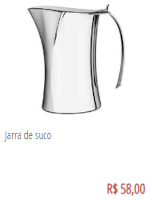
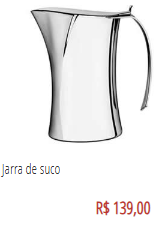
ultima atualização

diff --git a/index.html b/index.html
@@ -204,12 +204,7 @@
   <div class="gift-container">
     <div class="gift">
       <img src="img.png" alt="Jarra de suco">
-      <button onclick="abrirFormulario('Jarra de suco', '58.00')">Comprar</button>
-    </div>
-
-    <div class="gift">
-      <img src="img115.png" alt="Jogo de lençol">
-      <button onclick="abrirFormulario('Jogo de lençol', '115.00')">Comprar</button>
+      <button onclick="abrirFormulario('Jarra de suco', '139.00')">Comprar</button>
     </div>
 
     <div class="gift">
@@ -218,8 +213,23 @@
     </div>
 
     <div class="gift">
+      <img src="img160.png" alt="Vasos decorativos">
+      <button onclick="abrirFormulario('Vasos decorativos', '160.00')">Comprar</button>
+    </div>
+
+    <div class="gift">
+      <img src="imagem-casaco.PNG" alt="Casaco de cardigã">
+      <button onclick="abrirFormulario('Casaco de cardigã', '180.00')">Comprar</button>
+    </div>
+
+    <div class="gift">
       <img src="img200.png" alt="Espremedor de frutas">
       <button onclick="abrirFormulario('Espremedor de frutas', '200.00')">Comprar</button>
+    </div>
+
+    <div class="gift">
+      <img src="imagem-relogio.PNG" alt="Relógio feminino">
+      <button onclick="abrirFormulario('Relógio feminino', '230.00')">Comprar</button>
     </div>
 
     <div class="gift">
@@ -228,8 +238,23 @@
     </div>
 
     <div class="gift">
+      <img src="imagem-perfume.PNG" alt="Combo perfume">
+      <button onclick="abrirFormulario('Combo perfume', '240.00')">Comprar</button>
+    </div>
+
+    <div class="gift">
+      <img src="guarda-chuvaUT.png" alt="Guarda-chuva de renda">
+      <button onclick="abrirFormulario('Guarda-chuva de renda', '270.00')">Comprar</button>
+    </div>
+
+    <div class="gift">
       <img src="img280.png" alt="Jogo de toalhas">
       <button onclick="abrirFormulario('Jogo de toalhas', '280.00')">Comprar</button>
+    </div>
+
+    <div class="gift">
+      <img src="img300.png" alt="Edredom Queen">
+      <button onclick="abrirFormulario('Edredom Queen', '300.00')">Comprar</button>
     </div>
 
     <div class="gift">
@@ -238,59 +263,37 @@
     </div>
 
     <div class="gift">
+      <img src="img320.png" alt="Air Fryer">
+      <button onclick="abrirFormulario('Air Fryer', '320.00')">Comprar</button>
+    </div>
+
+    <div class="gift">
       <img src="img350.png" alt="Batedeira planetária">
       <button onclick="abrirFormulario('Batedeira planetária', '350.00')">Comprar</button>
+    </div>
+
+    <div class="gift">
+      <img src="img365.png" alt="Chuveiro Eletrônico Lorenzetti">
+      <button onclick="abrirFormulario('Chuveiro Eletrônico Lorenzetti', '365.00')">Comprar</button>
+    </div>
+
+    <div class="gift">
+      <img src="img420.png" alt="Luminaria de chão">
+      <button onclick="abrirFormulario('Luminaria de chão', '420.00')">Comprar</button>
+    </div>
+
+    <div class="gift">
+      <img src="img448.png" alt="Cafeteira">
+      <button onclick="abrirFormulario('Cafeteira', '480.00')">Comprar</button>
     </div>
 
     <div class="gift">
       <img src="img470.png" alt="Lavador de alta pressão">
       <button onclick="abrirFormulario('Lavador de alta pressão', '479.00')">Comprar</button>
     </div>
+    
 
-    <div class="gift">
-      <img src="img540.png" alt="Edredom Queen">
-      <button onclick="abrirFormulario('Edredom Queen', '540.00')">Comprar</button>
-    </div>
 
-    <div class="gift">
-      <img src="img550.png" alt="Air Fryer">
-      <button onclick="abrirFormulario('Air Fryer', '550.00')">Comprar</button>
-    </div>
-
-    <div class="gift">
-      <img src="img680.png" alt="Passadeira a vapor">
-      <button onclick="abrirFormulario('Passadeira a vapor', '680.00')">Comprar</button>
-    </div>
-
-    <div class="gift">
-      <img src="img700.png" alt="Queijo e doces">
-      <button onclick="abrirFormulario('Queijo e doces', '700.00')">Comprar</button>
-    </div>
-
-    <div class="gift">
-      <img src="img800.png" alt="Rack para TV">
-      <button onclick="abrirFormulario('Rack para TV', '800.00')">Comprar</button>
-    </div>
-
-    <div class="gift">
-      <img src="img950.png" alt="Kit de lustres e luminárias">
-      <button onclick="abrirFormulario('Kit de lustres e luminárias', '950.00')">Comprar</button>
-    </div>
-
-    <div class="gift">
-      <img src="img1150.png" alt="Poltrona">
-      <button onclick="abrirFormulario('Poltrona', '1150.00')">Comprar</button>
-    </div>
-
-    <div class="gift">
-      <img src="img2000.png" alt="Smart TV 50'">
-      <button onclick="abrirFormulario('Smart TV 50Pol', '2000.00')">Comprar</button>
-    </div>
-
-    <div class="gift">
-      <img src="img2400.png" alt="Sofa retrátil">
-      <button onclick="abrirFormulario('Sofa retrátil', '2400.00')">Comprar</button>
-    </div>
   </div>
 
   <div id="formulario" style="display: none; padding: 20px;">
@@ -316,7 +319,8 @@
   <div id="pix" style="display: none; padding: 20px;">
     <h2>Pagamento</h2>
     <p>Envie o valor para a chave PIX abaixo:</p>
-    <p><strong>Dindinha@pix.com</strong></p>
+    <p><strong>CPF: 954.608.378-04</strong></p>
+    <p><strong>EFIGENIA FERNANDES GUIMARAES - Banco ITAÚ</strong></p>
     <p>Por favor, realize o pagamento para a chave PIX acima. Assim que o pagamento for feito, clique em "Confirmar pagamento".</p>
     <button type="button" onclick="confirmarPagamento()" class="form-button">Confirmar pagamento</button>
   </div>
